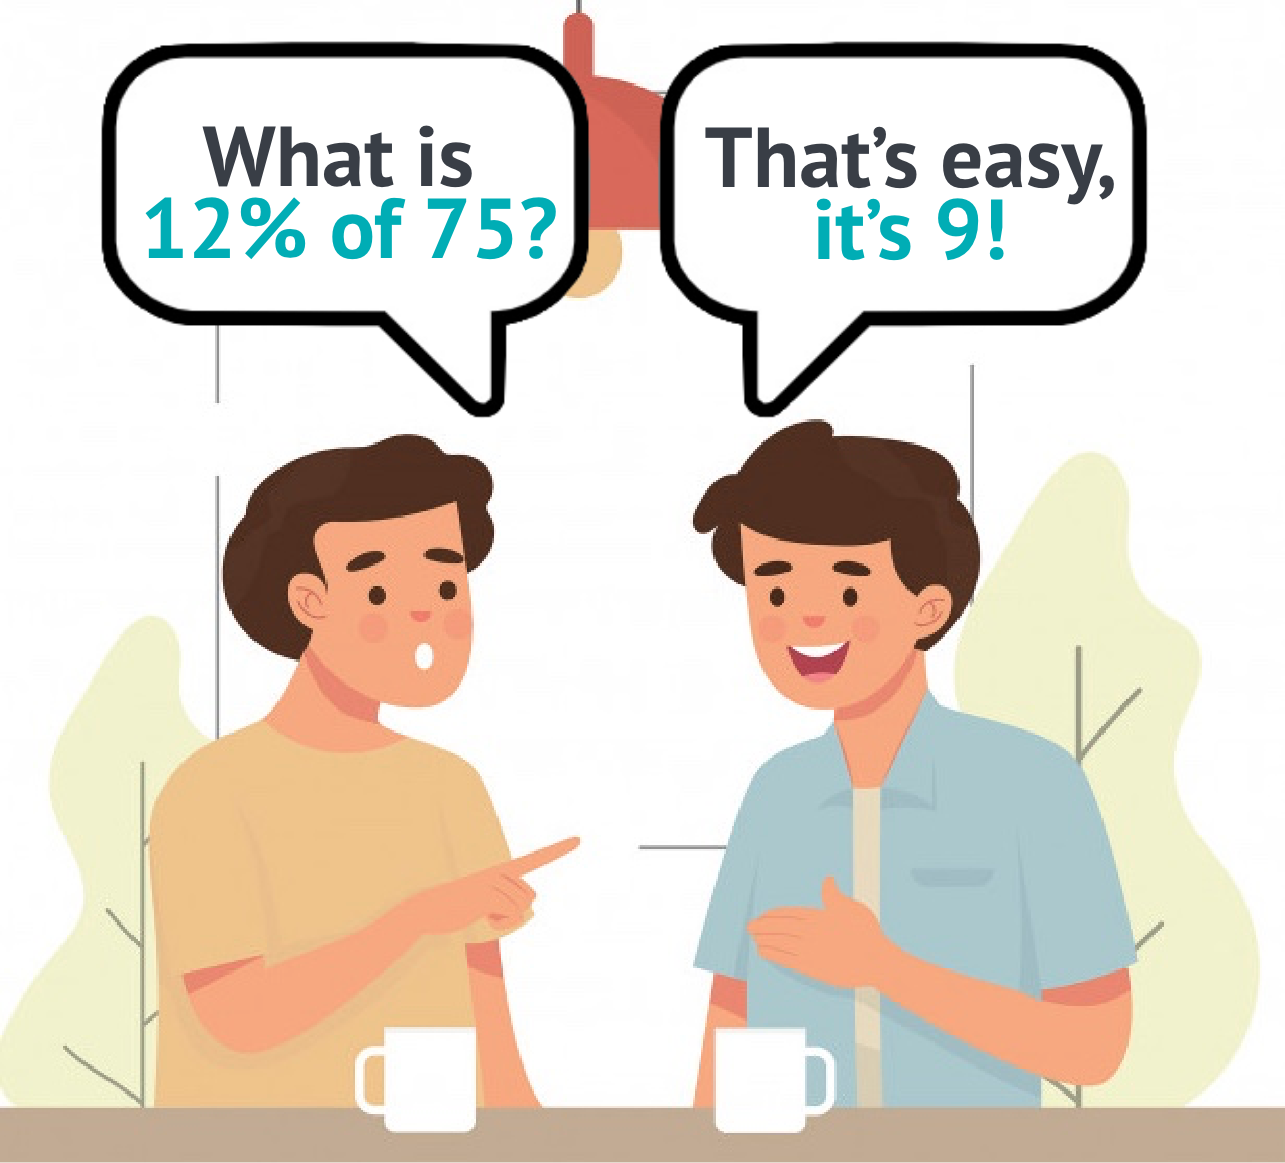
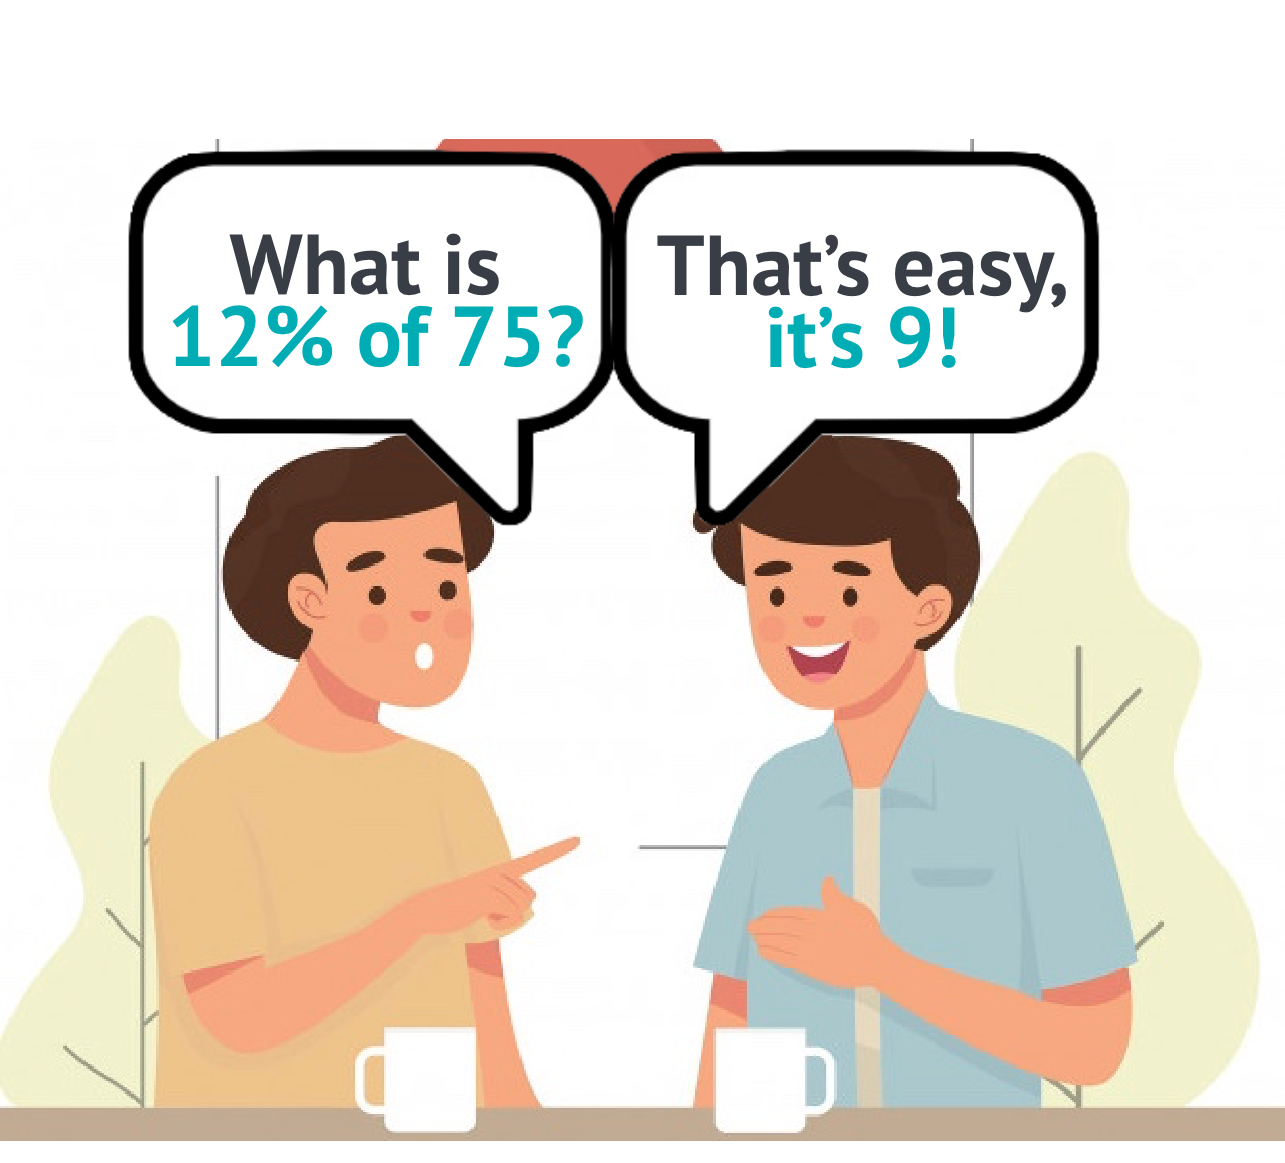
fix headline text and remove image and button

Changed region(s): [[0.0623, 0.0, 0.9027, 0.4643], [0.0, 0.9596, 1.0, 1.0]]

diff --git a/scss/index.scss b/scss/index.scss
@@ -3,15 +3,11 @@
 * {
     margin: 0px;
     padding: 0px;
+    box-sizing: border-box;
 }
 
 body {
     background-color: $backgroundColor;
-}
-
-.logo {
-    width: 25vh;
-    display: block;
 }
 
 .container {
@@ -21,48 +17,24 @@ body {
     box-sizing: border-box;
 }
 
-.mainImage {
-    // make image same width as viewport - padding left and right on container
-    width: calc(100vw - 70px);
-    border-radius: 10%;
-    display: block;
-}
-
-.headline {
-    padding: 20px 0px;
-    font-size: 40px;
-    font-family: $fontFamily;
-    color: $textColor;
-    display: inline-block;
-}
-
-// Get started button
-.getstarted {
-    background-color: $interactionColor;
-    border: none;
-    border-radius: 15px;
-    padding: 5px 10px;
-    display: block;
-    width: calc(100vw - 70px);
-    font-size: 28px;
-    text-align: center;
-    cursor: pointer;
-    transition: ease-out 0.4s;
-    box-shadow: inset 0 0 0 0 $interactionColor;
-    outline: none;
-    position: fixed;
-    bottom: 20px;
-    a {
-        text-decoration: none;
-        color: $textColor;
-        font-family: $fontFamily;
+.firstHalfDiv {
+    border: 2px solid rgb(224, 0, 168);
+    height: calc(50vh - 10px);
+    box-sizing: border-box;
+    .logo {
+        width: 25vh;
+        display: block;
     }
-}
-
-.getstarted:hover {
-    box-shadow: inset 200px 0 0 0 #5fc314;
-    cursor: pointer;
-    a {
-        color: black;
+    .headline {
+        padding: 20px 0px;
+        font-size: 40px;
+        font-family: $fontFamily;
+        color: $textColor;
+        display: inline-block;
+    }
+    #tipsAndTricks {
+        font-size: 23px;
+        font-family: $fontFamily;
+        color: $textColor;
     }
 }

diff --git a/css/index.css b/css/index.css
@@ -1,15 +1,12 @@
 * {
   margin: 0px;
   padding: 0px;
+  -webkit-box-sizing: border-box;
+          box-sizing: border-box;
 }
 
 body {
   background-color: #393e46;
-}
-
-.logo {
-  width: 25vh;
-  display: block;
 }
 
 .container {
@@ -20,13 +17,19 @@ body {
           box-sizing: border-box;
 }
 
-.mainImage {
-  width: calc(100vw - 70px);
-  border-radius: 10%;
+.firstHalfDiv {
+  border: 2px solid #e000a8;
+  height: calc(50vh - 10px);
+  -webkit-box-sizing: border-box;
+          box-sizing: border-box;
+}
+
+.firstHalfDiv .logo {
+  width: 25vh;
   display: block;
 }
 
-.headline {
+.firstHalfDiv .headline {
   padding: 20px 0px;
   font-size: 40px;
   font-family: "PT Sans";
@@ -34,38 +37,9 @@ body {
   display: inline-block;
 }
 
-.getstarted {
-  background-color: #00adb5;
-  border: none;
-  border-radius: 15px;
-  padding: 5px 10px;
-  display: block;
-  width: calc(100vw - 70px);
-  font-size: 28px;
-  text-align: center;
-  cursor: pointer;
-  -webkit-transition: ease-out 0.4s;
-  transition: ease-out 0.4s;
-  -webkit-box-shadow: inset 0 0 0 0 #00adb5;
-          box-shadow: inset 0 0 0 0 #00adb5;
-  outline: none;
-  position: fixed;
-  bottom: 20px;
-}
-
-.getstarted a {
-  text-decoration: none;
-  color: #eeeeee;
+.firstHalfDiv #tipsAndTricks {
+  font-size: 23px;
   font-family: "PT Sans";
-}
-
-.getstarted:hover {
-  -webkit-box-shadow: inset 200px 0 0 0 #5fc314;
-          box-shadow: inset 200px 0 0 0 #5fc314;
-  cursor: pointer;
-}
-
-.getstarted:hover a {
-  color: black;
+  color: #eeeeee;
 }
 /*# sourceMappingURL=index.css.map */

diff --git a/index.html b/index.html
@@ -13,14 +13,17 @@
 	</head>
 	<body>
 		<div class="container">
-			<img src="./assets/logoWithText.png" alt="logo" class="logo" />
-			<h2 class="headline">
-				Learn to <br />
-				Calculate Fast <br />
-				in Your Head <br />
-			</h2>
-			<img src="./assets/mainImage.png" alt="image" class="mainImage" />
-			<button class="getstarted"><a href="./choosePractise.html">Get started</a></button>
+			<div class="firstHalfDiv">
+				<img src="./assets/logoWithText.png" alt="logo" class="logo" />
+				<div class="centerText">
+					<h2 class="headline">
+						Learn to <br />
+						Calculate Fast <br />
+						in Your Head <br />
+					</h2>
+					<h1 id="tipsAndTricks">with tips and tricks</h1>
+				</div>
+			</div>
 		</div>
 		<script>
 			if ("serviceWorker" in navigator) {
